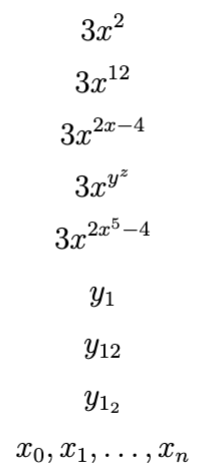
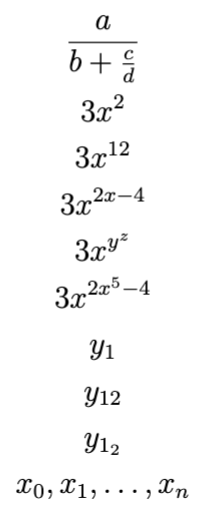
more LaTeX

diff --git a/src/latex.md b/src/latex.md
@@ -797,6 +797,11 @@ For example:
 ```
 
 Fractions are rendered using the `\frac` (small) and `\dfrac` (large) commands.
+When in display mode (inside double dollar signs), both are rendered large,
+so `\dfrac` is only needed in inline math mode.
+For both commands, the numerator and denominator
+are specified in their own pair of curly braces.
+
 For example:
 
 <img alt="LaTeX inline fractions" style="width: 70%"
@@ -835,6 +840,7 @@ The following are additional examples of using math mode:
 
 ```latex
 {\large
+  $$ \frac{a}{b + \frac{c}{d}} $$ % nested fractions
   $$ 3x^{2} $$ % single-character exponent
   $$ 3x^{12} $$ % exponent must be in curly braces if more than one character
   $$ 3x^{2x - 4} $$ % more complex exponent
